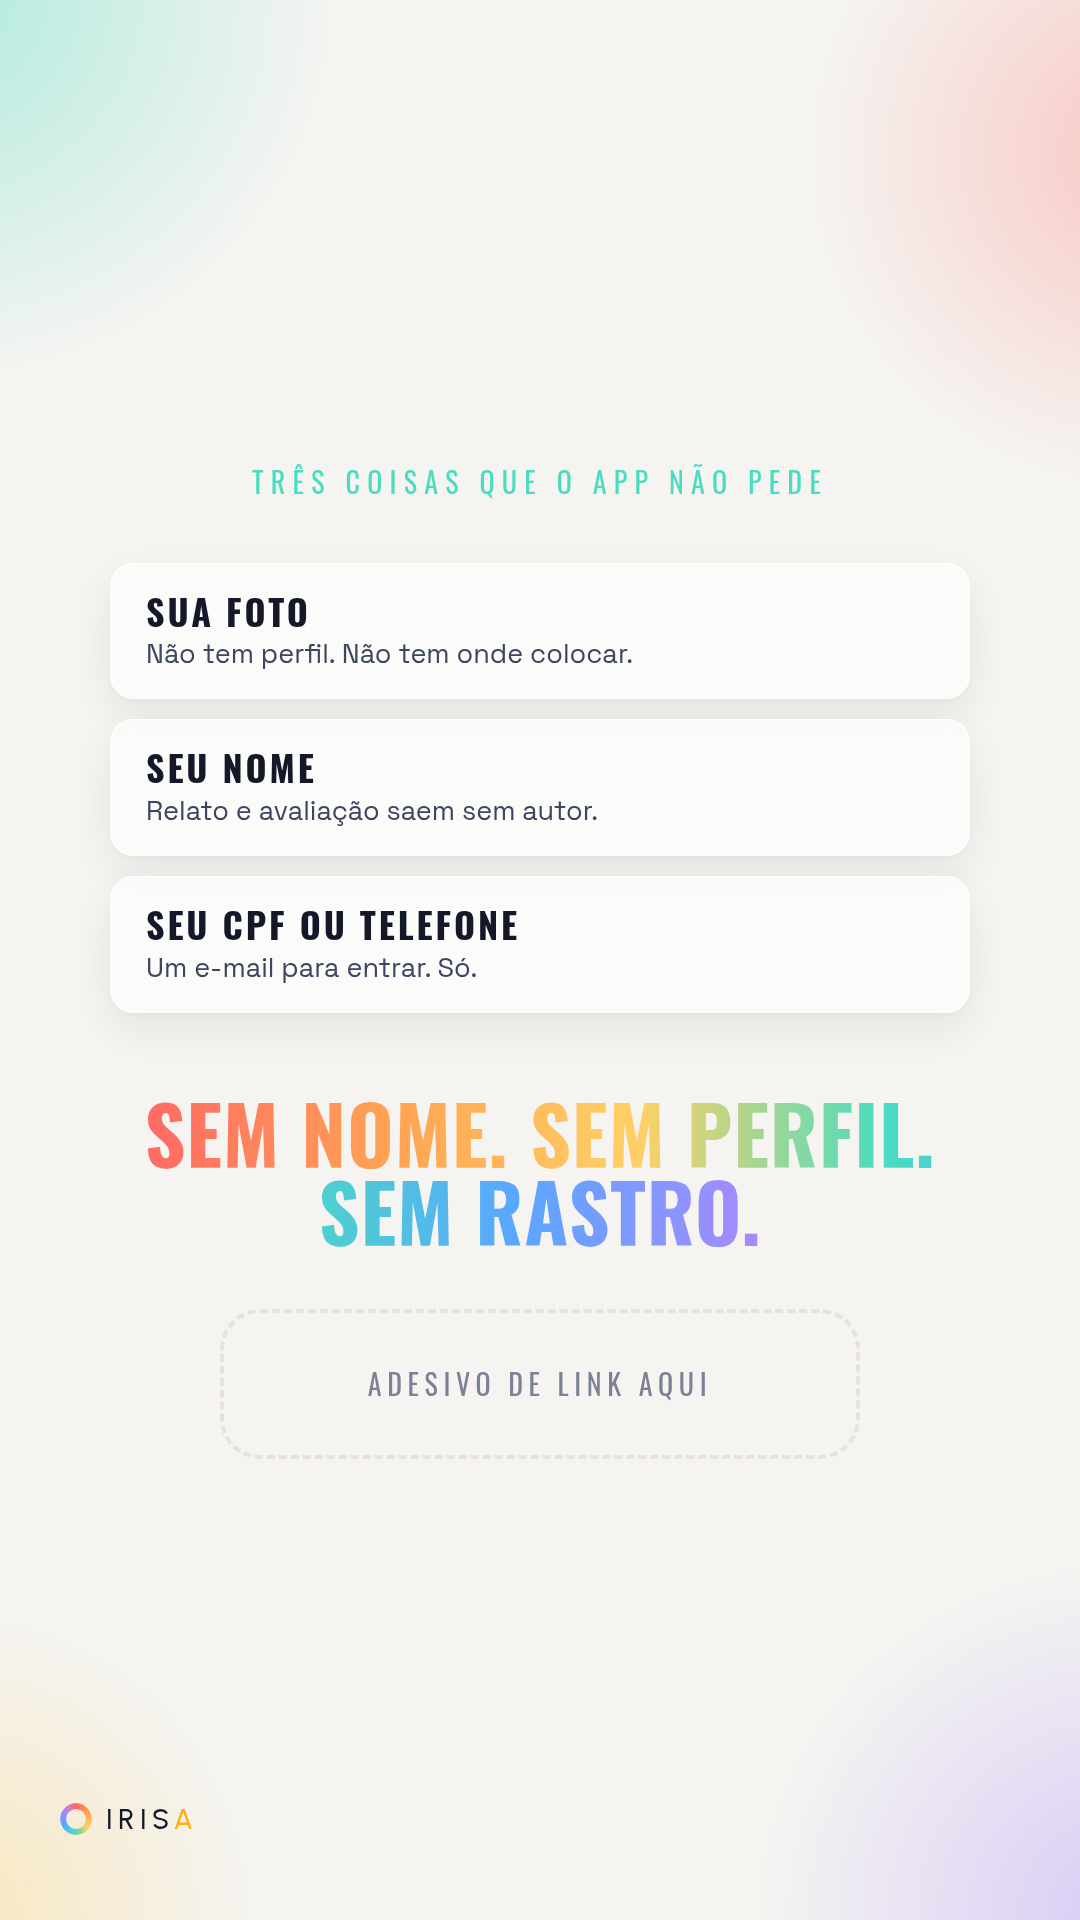
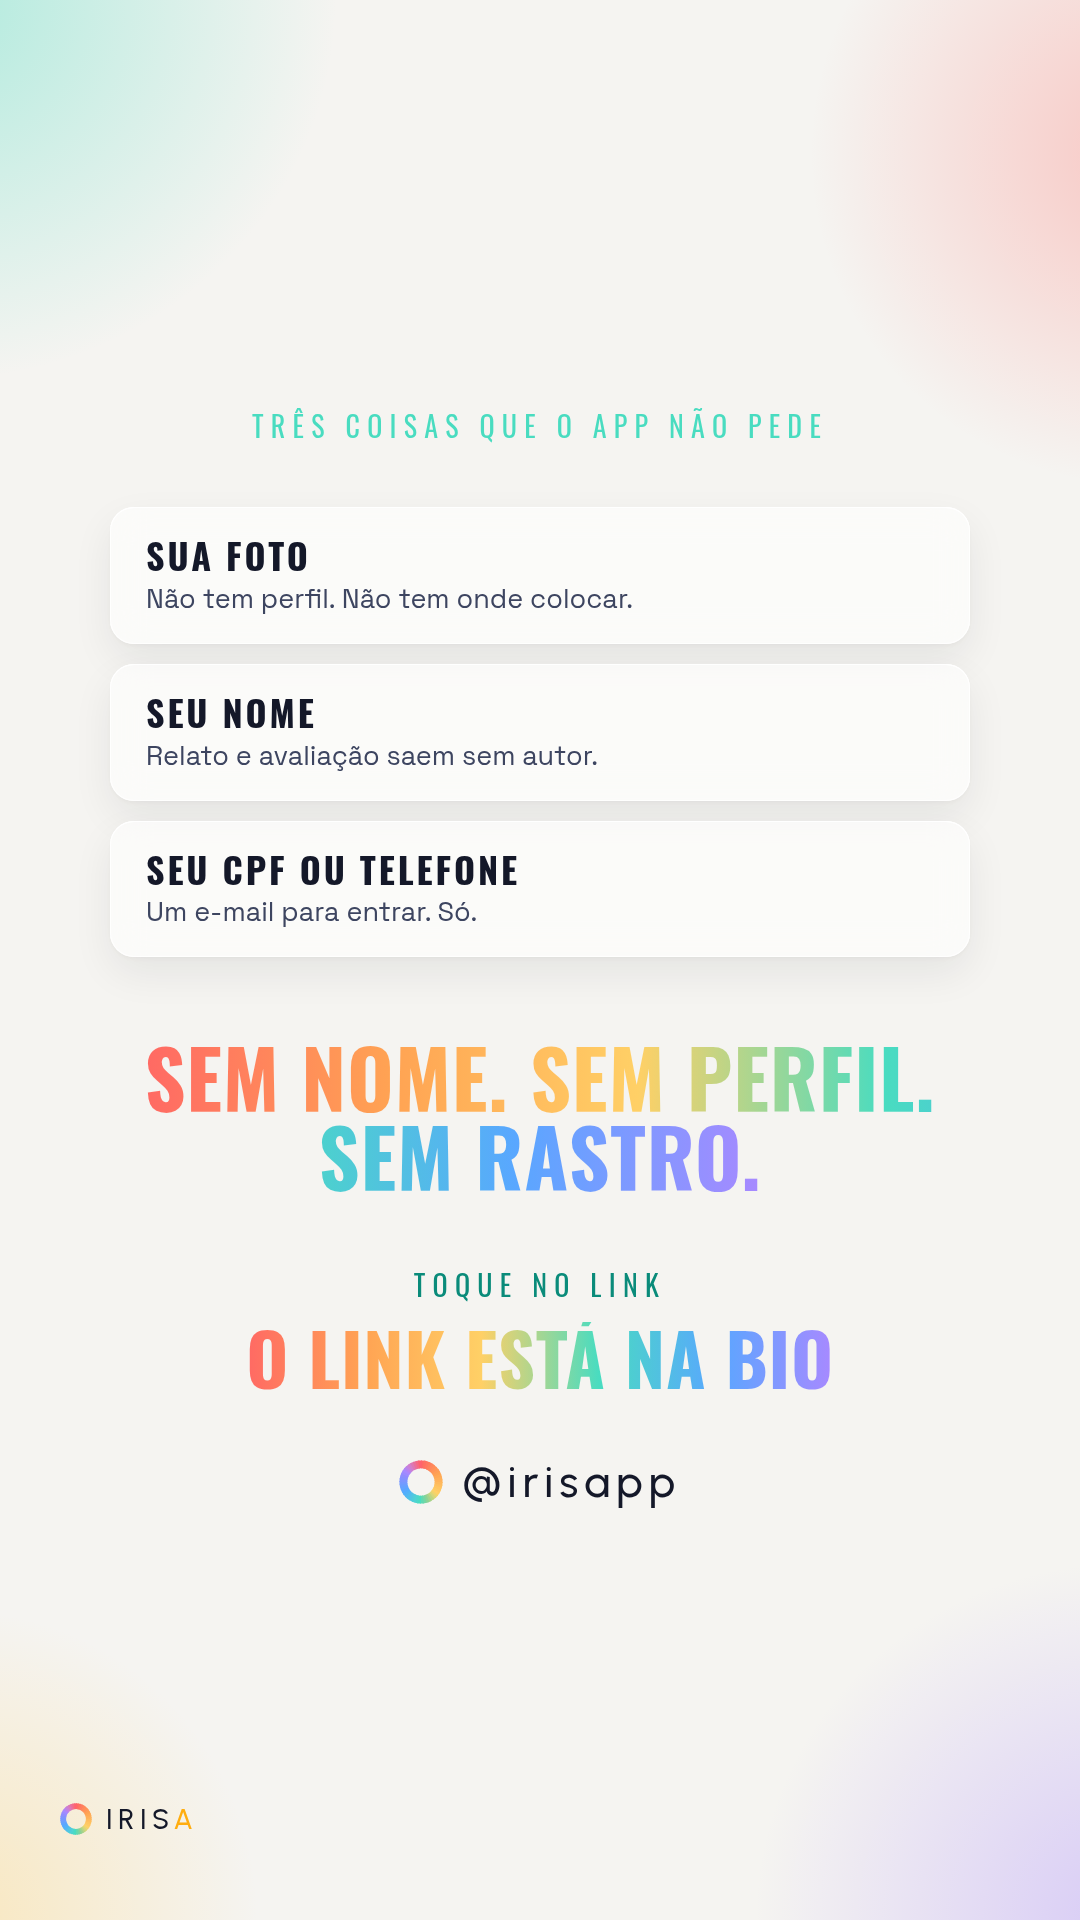
Tira dependencia de adesivo interativo dos stories-2
Publicacao virou automatica via Graph API (scripts/publicar-instagram.mjs),
que so publica a imagem - nao existe endpoint pra colar adesivo de quiz,
enquete, caixa de pergunta ou link depois. Lamina 4 trocou o placeholder
de adesivo de link pelo fecho de bio ja usado no resto da campanha; as
outras tres ja traziam a resposta na propria arte, so precisavam perder a
descricao de adesivo no texto de apoio.

Claude-Session: https://claude.ai/code/session_0176HYo5tdrbP7aNB4p2bYzc

diff --git a/docs/stories-2.html b/docs/stories-2.html
@@ -510,6 +510,8 @@ span.mark::before{content:"";position:absolute;left:50%;top:50%;width:8px;height
 <div class="small c" style="color:var(--turq)">três coisas que o app não pede</div>
  <div class="list" style="margin-top:60px;width:860px"><div><b>Sua foto</b><span>Não tem perfil. Não tem onde colocar.</span></div><div><b>Seu nome</b><span>Relato e avaliação saem sem autor.</span></div><div><b>Seu CPF ou telefone</b><span>Um e-mail para entrar. Só.</span></div></div>
  <p class="big c" style="font-size:80px;margin:80px 60px 0"><span class="rainbow">Sem nome. Sem perfil.<br>Sem rastro.</span></p>
- <div class="zone">adesivo de link aqui</div>
+ <div class="small c" style="color:var(--turqInk);margin-top:70px">toque no link</div>
+ <p class="big c rainbow" style="font-size:72px;margin-top:16px">O link está na bio</p>
+ <div style="display:flex;align-items:center;gap:20px;margin-top:56px;font-family:var(--wordmark);font-weight:500;letter-spacing:.14em;font-size:44px;color:var(--ink)"><svg viewBox="0 0 100 100" style="width:44px;height:44px;flex:none;display:block"><use href="#radarmark"></use></svg><span>@irisapp</span></div>
 </section>
 </body></html>

diff --git a/docs/legendas/stories-2.md b/docs/legendas/stories-2.md
@@ -1,23 +1,31 @@
-# Stories de interação — texto de cada adesivo
+# Stories de interação — texto de cada lâmina
 
-## 1 · `stories-2/01.png` (quiz) — sáb 26/09, 12h
-Pergunta do adesivo de quiz: **"O bar fica sabendo que fui eu?"**
-Opções: Sim · Não
-Resposta certa: Não.
-A lâmina aponta: "A resposta completa sai hoje às 18h no feed" (carrossel 3, mesmo dia).
+Reformulado em 28/09/2026: a publicação passou a ser automática pelo
+`scripts/publicar-instagram.mjs` (Graph API), que só publica a imagem — não existe endpoint
+que adicione adesivo de quiz, enquete, caixa de pergunta ou link a um story depois de
+publicado. As quatro peças abaixo foram redesenhadas para funcionar sozinhas, sem depender
+de nenhum adesivo colado à mão.
 
-## 2 · `stories-2/02.png` (caixa de pergunta) — dom 27/09, 12h
-Pergunta do adesivo: **"Quanta cor tem o seu bairro?"**
-Texto da lâmina: "Conta o nome do bairro e o lugar que te fez sentir bem-vinde lá."
-Respostas viram banco de ideias pro radar — coletar sem prometer resposta pública.
+## 1 · `stories-2/01.png` (pergunta e resposta) — sex 02/10, 12h
+"Se eu registrar, o bar fica sabendo que fui eu?" — **Não.** A lâmina já traz a resposta e a
+explicação ("Ninguém vê quem registrou — nem o bar, nem outra pessoa, nem a gente"). Não
+depende de adesivo de quiz: quem vê já sai sabendo, sem precisar tocar em nada.
 
-## 3 · `stories-2/03.png` (enquete) — seg 28/09, 12h
-Pergunta do adesivo: **"Já deixou de ir a algum lugar por medo?"**
-Opções: Sim · Não
-Texto da lâmina: "É exatamente pra isso que o mapa existe."
+## 2 · `stories-2/02.png` (convite a responder) — sáb 03/10, 12h
+"Quanta cor tem o seu bairro?" Texto da lâmina: "Cada lugar avaliado dá mais cor pro mapa do
+seu bairro." Antes pedia o nome do bairro por adesivo de caixa de pergunta; sem adesivo, a
+resposta de quem quiser contar já chega por DM normal (responder a um story sempre manda DM,
+com ou sem adesivo) — só não é o texto da lâmina que pede isso, é convite implícito. Quem
+quiser puxar mais resposta pode comentar no post do dia com a mesma pergunta.
 
-## 4 · `stories-2/04.png` (três coisas que o app não pede) — ter 29/09, 12h
-Título: "Três coisas que o app não pede"
-Adesivo de link apontando pro bit.ly/appirisa.
-Sugestão de lista pra narrar (a lâmina não tem o texto escrito): nome verdadeiro, foto de
-perfil, motivo do registro.
+## 3 · `stories-2/03.png` (afirmação) — dom 04/10, 12h
+"Você já deixou de ir num lugar por medo?" Fecha com "É exatamente para isso que o mapa
+existe." Antes era enquete Sim/Não por adesivo; a pergunta retórica já carrega a resposta
+implícita (quase todo mundo já deixou), então sustenta sozinha sem precisar do adesivo.
+
+## 4 · `stories-2/04.png` (três coisas que o app não pede) — seg 05/10, 12h
+Título: "Três coisas que o app não pede" (foto, nome, CPF/telefone). Fecha com "Sem nome. Sem
+perfil. Sem rastro." Antes fechava com adesivo de link (dashed box "adesivo de link aqui");
+trocado pelo fecho de bio já usado no restante da campanha — "toque no link" / "O link está
+na bio" / @irisapp — que é texto fixo na própria arte, não depende de colar nada depois de
+publicar.

diff --git a/docs/legendas/CRONOGRAMA.md b/docs/legendas/CRONOGRAMA.md
@@ -34,11 +34,11 @@ sinal diferente: compartilhar, replay, comentar, salvar.
 | ter 29/09 | 19h | carrossel 3 — Sem nome. Sem perfil. Sem rastro. | comentário, salvar | `carrossel-3.txt` |
 | qua 30/09 | 19h | post-bemvinde — a palavra "bem-vinde" | comentário | `post-bemvinde.txt` |
 | qui 01/10 | 19h | carrossel 4 — Emergência e apoio por cidade | salvar | `carrossel-4.txt` |
-| sex 02/10 | 12h | story `stories-2/01` (quiz) | quiz | `stories-2.md` § 1 |
+| sex 02/10 | 12h | story `stories-2/01` (pergunta e resposta) | — | `stories-2.md` § 1 |
 | sex 02/10 | 19h | **reels 6** — Você já soltou a mão em público? (16 s) | compartilhar por DM, comentar "eu" | `reels-6.txt` |
-| sáb 03/10 | 12h | story `stories-2/02` (caixa de pergunta) | caixa | `stories-2.md` § 2 |
+| sáb 03/10 | 12h | story `stories-2/02` (convite a responder) | resposta por DM (sem adesivo) | `stories-2.md` § 2 |
 | sáb 03/10 | 19h | **reels 9** — Sua cidade está no mapa? (16 s) | comentário simples em massa | `reels-9.txt` |
-| dom 04/10 | 12h | story `stories-2/03` (enquete) | enquete | `stories-2.md` § 3 |
+| dom 04/10 | 12h | story `stories-2/03` (afirmação) | — | `stories-2.md` § 3 |
 | dom 04/10 | 19h | **reels 7** — Mudei de calçada 4 vezes hoje (18 s) | replay, identificação | `reels-7.txt` |
 | seg 05/10 | 12h | story `stories-2/04` (três coisas que o app não pede) | — | `stories-2.md` § 4 |
 | seg 05/10 | 19h | **reels 8** — A bandeira na porta não diz nada (20 s) | comentário (concorda/discorda) | `reels-8.txt` |
@@ -74,3 +74,12 @@ reaproveitar nada já postado.
 
 Fontes: Buffer (9,6M posts), Metricool Instagram Study 2026, Later/Hootsuite guias de
 algoritmo 2026, Social Insider (6M reels).
+
+## Correção (28/09)
+
+Os 4 stories de `stories-2/` (01–04) foram desenhados com adesivo nativo do Instagram (quiz,
+caixa de pergunta, enquete e adesivo de link) — mas a publicação virou automática pelo
+`scripts/publicar-instagram.mjs` (Graph API), que só publica a imagem: não existe endpoint
+que cole adesivo depois. Redesenhados pra funcionar sozinhos, sem depender de colar nada à
+mão (detalhe de cada um em `stories-2.md`); a lâmina 04 trocou o placeholder de adesivo de
+link pelo fecho de bio ("O link está na bio" + @irisapp) já usado no resto da campanha.
